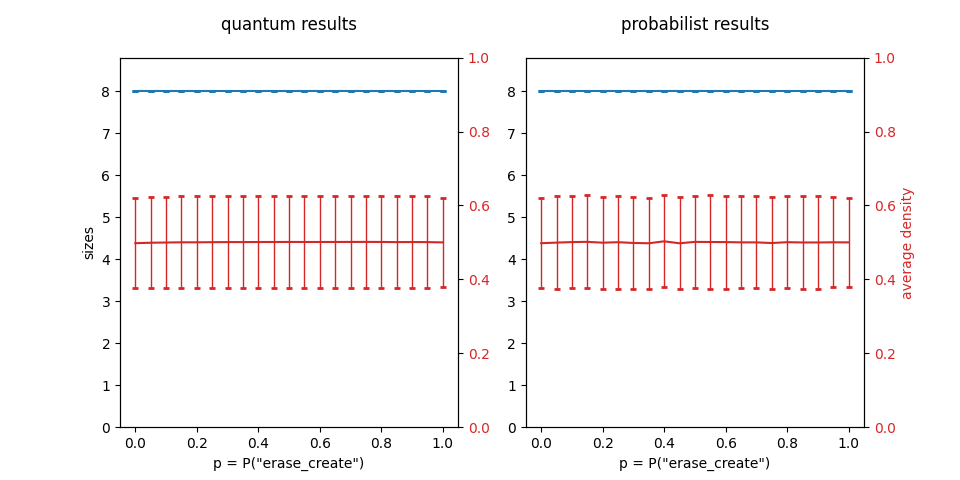
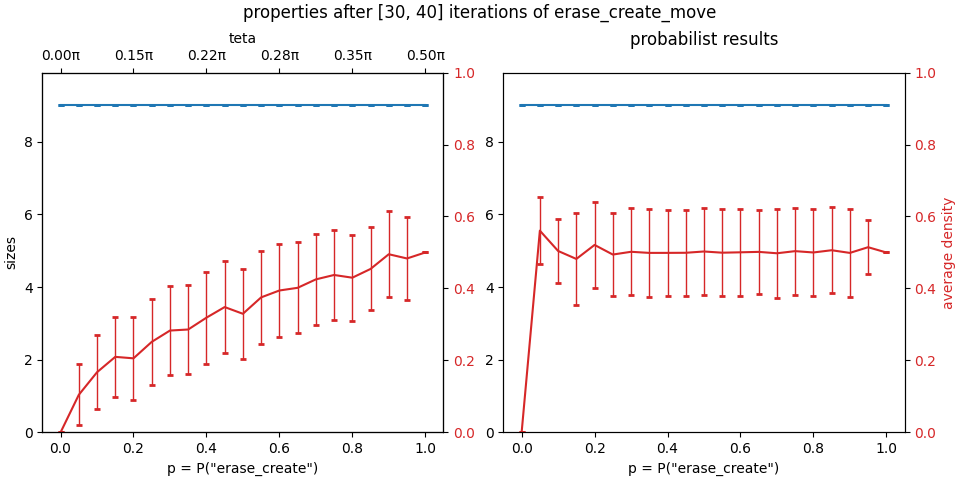
added a probabilist selector, and more options in experiments

diff --git a/v6/grapher/experiments/probabilist_vs_quantum_1_param_rule/grapher.py b/v6/grapher/experiments/probabilist_vs_quantum_1_param_rule/grapher.py
@@ -21,32 +21,22 @@ for filename in filenames:
 	ps = np.array(data["p"])
 	tetas = np.array(data["teta"])
 
-	probabilist_size = np.zeros(len(ps))
-	probabilist_size_std_dev = np.zeros(len(ps))
+	ratios = [it["quantum"]["ratio"] for it in data["results"]]
+	total_probas = [it["quantum"]["total_proba"] for it in data["results"]]
 
-	quantum_size = np.zeros(len(ps))
-	quantum_size_std_dev = np.zeros(len(ps))
+	probabilist_size = [it["probabilist"]["avg_size"] for it in data["results"]]
+	probabilist_size_std_dev = [it["probabilist"]["std_dev_size"] for it in data["results"]]
 
-	probabilist_density = np.zeros(len(ps))
-	probabilist_density_std_dev = np.zeros(len(ps))
+	probabilist_density = [it["probabilist"]["avg_density"] for it in data["results"]]
+	probabilist_density_std_dev = [it["probabilist"]["std_dev_density"] for it in data["results"]]
 
-	quantum_density = np.zeros(len(ps))
-	quantum_density_std_dev = np.zeros(len(ps))
+	quantum_size = [it["quantum"]["avg_size"] for it in data["results"]]
+	quantum_size_std_dev = [it["quantum"]["std_dev_size"] for it in data["results"]]
 
-	for i, it in enumerate(data["results"]):
-		probabilist_size[i] = it["probabilist"]["avg_size"]
-		probabilist_size_std_dev[i] = it["probabilist"]["std_dev_size"]
+	quantum_density = [it["quantum"]["avg_density"] for it in data["results"]]
+	quantum_density_std_dev = [it["quantum"]["std_dev_density"] for it in data["results"]]
 
-		probabilist_density[i] = it["probabilist"]["avg_density"]
-		probabilist_density_std_dev[i] = it["probabilist"]["std_dev_density"]
-
-		quantum_size[i] = it["quantum"]["avg_size"]
-		quantum_size_std_dev[i] = it["quantum"]["std_dev_size"]
-
-		quantum_density[i] = it["quantum"]["avg_density"]
-		quantum_density_std_dev[i] = it["quantum"]["std_dev_density"]
-
-	fig = plt.figure(figsize=plt.figaspect(0.5))
+	fig = plt.figure(figsize=plt.figaspect(0.5), constrained_layout=True)
 
 	y_lim = max(max(quantum_size + probabilist_size_std_dev), max(probabilist_size + probabilist_size_std_dev))*1.1
 
@@ -65,16 +55,22 @@ for filename in filenames:
 	ax1 = fig.add_subplot(1, 2, 1)
 	ax1.set_xlabel(x_label)
 	ax1.set_ylabel('sizes')
-	ax1.set_title(f'quantum results', pad=20)
 	ax1.set_ylim(0, y_lim)
 
 	ax1.errorbar(ps, quantum_size, quantum_size_std_dev,
-				capsize=2, elinewidth=1, markeredgewidth=2, label="average size", color=color)
+				capsize=2, elinewidth=1, markeredgewidth=2, label="size variation", color=color)
 
 	# graph densities
 	ax1_2 = ax1.twinx()
 	ax1_2.tick_params(axis='y', labelcolor=color2)
 	ax1_2.set_ylim(0, 1)
+
+	n_interval = len(ps) // 5
+	ax1_2_x = ax1_2.twiny()
+	ax1_2_x.set_xlim(ax1.get_xlim())
+	ax1_2_x.set_xticks(ps[::n_interval])
+	ax1_2_x.set_xticklabels(["%.2fπ" % teta for teta in tetas[::n_interval]])
+	ax1_2_x.set_xlabel("teta")
 
 	ax1_2.errorbar(ps, quantum_density, quantum_density_std_dev,
 					capsize=2, elinewidth=1, markeredgewidth=2, label="average density", color=color2)
@@ -91,7 +87,7 @@ for filename in filenames:
 	ax2.set_ylim(0, y_lim)
 
 	ax2.errorbar(ps, probabilist_size, probabilist_size_std_dev,
-				capsize=2, elinewidth=1, markeredgewidth=2, label="average size", color=color)
+				capsize=2, elinewidth=1, markeredgewidth=2, label="size variation", color=color)
 
 	# graph densities
 	ax2_2 = ax2.twinx()
@@ -102,11 +98,29 @@ for filename in filenames:
 	ax2_2.errorbar(ps, probabilist_density, probabilist_density_std_dev,
 					capsize=2, elinewidth=1, markeredgewidth=2, label="average density", color=color2)
 
-	n_interval = len(ps) // 5
-	ax2_2_x = ax2_2.twiny()
-	ax2_2_x.set_xlim(ax1.get_xlim())
-	ax2_2_x.set_xticks(ps[::n_interval])
-	ax2_2_x.set_xticklabels(["%.2f" % teta for teta in tetas[::n_interval]])
-	ax2_2_x.set_xlabel("teta")
-
+	fig.suptitle(f'properties after { data["n_iter"] } iterations of { rule_name }')
 	fig.savefig("../../plots/properties/" + name)
+
+
+
+
+	# probability
+	fig = plt.figure(constrained_layout=True)
+	ax = fig.add_subplot(1, 1, 1)
+	ax.set_xlabel('iterations')
+
+	n_interval = len(ps) // 5
+	ax_x = ax.twiny()
+	ax_x.set_xlim(ax1.get_xlim())
+	ax_x.set_xticks(ps[::n_interval])
+	ax_x.set_xticklabels(["%.2fπ" % teta for teta in tetas[::n_interval]])
+	ax_x.set_xlabel("teta")
+
+	ax.plot(ps, total_probas, label="total proba", color=color)
+	ax.plot(ps, ratios, label="ratio of graph", color = color_p)
+	ax.legend()
+	ax.set_ylabel("proba", color=color)
+	ax.tick_params(axis='y', labelcolor=color)
+
+	fig.suptitle(f'stats after { data["n_iter"] } iterations of { rule_name }')
+	fig.savefig("../../plots/stats/" + name)

diff --git a/v6/src/state.hpp b/v6/src/state.hpp
@@ -170,7 +170,7 @@ Non-virtual member functions are:
 				return op;
 			
 			/* generate random number */
-			float r = static_cast<PROBA_TYPE> (rand()) / static_cast<PROBA_TYPE> (RAND_MAX);
+			PROBA_TYPE r = static_cast<PROBA_TYPE> (rand()) / static_cast<PROBA_TYPE> (RAND_MAX);
 
 			if (r < (op == 1 ? p : q))
 				return op;
@@ -328,6 +328,9 @@ Non-virtual member functions are:
 		// new graph hash
 		std::vector<size_t, allocator<size_t>> next_hash; /* of size (a) for the symbolic iteration */
 
+		// new graph random selector
+		std::vector<float, allocator<float>> random_selector; /* of size (a) for the symbolic iteration */
+
 		// new graph magnitude
 		std::vector<PROBA_TYPE, allocator<PROBA_TYPE>> next_real; /* of size (a) for the symbolic iteration */
 		std::vector<PROBA_TYPE, allocator<PROBA_TYPE>> next_imag; /* of size (a) for the symbolic iteration */
@@ -351,6 +354,7 @@ Non-virtual member functions are:
 				resize(next_imag, (size_t)(upsize_policy * size));
 				resize(node_size, (size_t)(upsize_policy * size));
 				resize(sub_node_size, (size_t)(upsize_policy * size));
+				resize(random_selector, (size_t)(upsize_policy * size));
 			}
 
 			std::iota(next_gid.begin(), next_gid.begin() + size, 0);
@@ -706,7 +710,7 @@ Non-virtual member functions are:
 					const long int graph_mem_usage = 2*sizeof(PROBA_TYPE) + 2*sizeof(unsigned int) + sizeof(unsigned short int);
 					const long int node_mem_usage = 2*sizeof(char) + sizeof(unsigned short int) + sizeof(op_type_t);
 					const long int sub_node_mem_usage = 2*sizeof(short int) + sizeof(size_t);
-					const long int symbolic_mem_usage = sizeof(char) + 2*sizeof(unsigned int) + sizeof(unsigned short int) + sizeof(size_t) + 2*sizeof(PROBA_TYPE);
+					const long int symbolic_mem_usage = sizeof(char) + 2*sizeof(unsigned int) + sizeof(unsigned short int) + sizeof(size_t) + 2*sizeof(PROBA_TYPE) + sizeof(float);
 
 					long int mem_usage_per_graph = (graph_mem_usage +
 						(node_mem_usage * node_begin[num_graphs] +
@@ -722,16 +726,23 @@ Non-virtual member functions are:
 					 !!!!!!!!!!!!!!!! */
 
 					if (next_num_graphs > max_num_graphs) {
-						/* sort graphs according to probability */
+
+						/* generate random selectors */
+						//const float size_max = (float)SIZE_MAX;
+						#pragma omp parallel for
+						for (auto gid_it = symbolic_iteration.next_gid.begin(); gid_it != partitioned_it; ++gid_it)  {
+							PROBA_TYPE r = symbolic_iteration.next_real[*gid_it];
+							PROBA_TYPE i = symbolic_iteration.next_imag[*gid_it];
+
+							float &random_number = symbolic_iteration.random_selector[*gid_it];
+							random_number = static_cast<float> (rand()) / static_cast<float> (RAND_MAX);
+							random_number = -std::log(1 - random_number) / (r*r + i*i);
+						} 
+
+						/* select graphs according to random selectors */
 						__gnu_parallel::nth_element(symbolic_iteration.next_gid.begin(), symbolic_iteration.next_gid.begin() + max_num_graphs, partitioned_it,
 						[&](unsigned int const &gid1, unsigned int const &gid2) {
-							PROBA_TYPE r1 = symbolic_iteration.next_real[gid1];
-							PROBA_TYPE i1 = symbolic_iteration.next_imag[gid1];
-
-							PROBA_TYPE r2 = symbolic_iteration.next_real[gid2];
-							PROBA_TYPE i2 = symbolic_iteration.next_imag[gid2];
-
-							return r1*r1 + i1*i1 > r2*r2 + i2*i2;
+							return symbolic_iteration.random_selector[gid1] < symbolic_iteration.random_selector[gid2];
 						});
 
 						next_num_graphs = max_num_graphs;

diff --git a/v6/grapher/experiments/probabilist_vs_quantum_1_param_rule/iterations.py b/v6/grapher/experiments/probabilist_vs_quantum_1_param_rule/iterations.py
@@ -15,6 +15,7 @@ import json
 parser = argparse.ArgumentParser(description='run quantum iteration for all possible arguments')
 
 parser.add_argument('-n', '--n-iter', type=int, default=10, help='number of iteration for each simulation')
+parser.add_argument('-s', '--size', type=int, default=10, help='initial graph size')
 
 parser.add_argument('-N', '--n-serializing', type=int, default=1, help='number of iteration for averaging values')
 
@@ -35,10 +36,10 @@ tetas = np.arccos(np.sqrt(1 - ps)) / np.pi
 ps, tetas = list(ps), list(tetas)
 
 def make_probabilist_cmd(args, p):
-	return f"../../probabilist_iterations.out --start-serializing { max(0, args.n_iter - args.n_serializing + 1) } -T 1e-18 -n { args.n_iter } -p { p } -q { p } --seed 0 " + " ".join(args.args + args.p_args)
+	return f"../../probabilist_iterations.out --start-serializing { max(0, args.n_iter - args.n_serializing + 1) } -s { args.size } -T 1e-18 -n { args.n_iter } -p { p } -q { p } --seed 0 " + " ".join(args.args + args.p_args)
 
 def make_quantum_cmd(args, teta):
-	return f"../../quantum_iterations.out --start-serializing { max(0, args.n_iter - args.n_serializing + 1) } -N -T 1e-18 -n { args.n_iter } --teta { teta } --phi 0 --seed 0 " + " ".join(args.args + args.q_args)
+	return f"../../quantum_iterations.out --start-serializing { max(0, args.n_iter - args.n_serializing + 1) } -s { args.size } -N -T 1e-18 -n { args.n_iter } --teta { teta } --phi 0 --seed 0 " + " ".join(args.args + args.q_args)
 
 # print rules
 print("{")
@@ -88,6 +89,8 @@ for i, (p, teta) in enumerate(zip(ps, tetas)):
 	for key in probabilist_avg:
 		probabilist_avg[key] /= len(data["iterations"])
 
+	probabilist_avg["avg_size"] -= args.size
+	
 
 
 
@@ -109,6 +112,8 @@ for i, (p, teta) in enumerate(zip(ps, tetas)):
 	# divided average by number of point
 	for key in quantum_avg:
 		quantum_avg[key] /= len(data["iterations"])
+
+	quantum_avg["avg_size"] -= args.size
 
 
 

diff --git a/v6/grapher/experiments/quantum_2_params_1_rule/iterations.py b/v6/grapher/experiments/quantum_2_params_1_rule/iterations.py
@@ -12,9 +12,13 @@ import argparse
 import numpy as np
 import json
 
+
+
+
 parser = argparse.ArgumentParser(description='run quantum iteration for all possible arguments')
 
 parser.add_argument('-n', '--n-iter', type=int, default=10, help='number of iteration for each simulation')
+parser.add_argument('-s', '--size', type=int, default=10, help='initial graph size')
 
 parser.add_argument('-N', '--n-serializing', type=int, default=1, help='number of iteration for averaging values')
 
@@ -35,7 +39,7 @@ phis = list(np.linspace(args.p0, args.p1, args.n_phi))
 tetas = list(np.linspace(args.t0, args.t1, args.n_teta))
 
 def make_cmd(args, teta, phi):
-	return f"../../quantum_iterations.out --start-serializing { max(0, args.n_iter - args.n_serializing + 1) } -N -T 1e-18 -n { args.n_iter } -t { teta } -p { phi } --seed 0 " + " ".join(args.args)
+	return f"../../quantum_iterations.out --start-serializing { max(0, args.n_iter - args.n_serializing + 1) } -s { args.size } -N -T 1e-18 -n { args.n_iter } -t { teta } -p { phi } --seed 0 " + " ".join(args.args)
 
 # print rules
 print("{")
@@ -81,6 +85,8 @@ for i, teta in enumerate(tetas):
 		# divided average by number of point
 		for key in avg:
 			avg[key] /= len(data["iterations"])
+
+		avg["avg_size"] -= args.size
 
 		# print to json
 		utils.print_to_json(2,

diff --git a/v6/grapher/experiments/probabilist_2_params_1_rule/iterations.py b/v6/grapher/experiments/probabilist_2_params_1_rule/iterations.py
@@ -12,9 +12,12 @@ import argparse
 import numpy as np
 import json
 
+
+
 parser = argparse.ArgumentParser(description='run quantum iteration for all possible arguments')
 
 parser.add_argument('-n', '--n-iter', type=int, default=10, help='number of iteration for each simulation')
+parser.add_argument('-s', '--size', type=int, default=10, help='initial graph size')
 
 parser.add_argument('-N', '--n-serializing', type=int, default=1, help='number of iteration for averaging values')
 
@@ -35,7 +38,7 @@ ps = list(np.linspace(args.p0, args.p1, args.n_p))
 qs = list(np.linspace(args.q0, args.q1, args.n_q))
 
 def make_cmd(args, p, q):
-	return f"../../probabilist_iterations.out --start-serializing { max(0, args.n_iter - args.n_serializing + 1) } -T 1e-18 -n { args.n_iter } -q { q } -p { p } --seed 0 " + " ".join(args.args)
+	return f"../../probabilist_iterations.out --start-serializing { max(0, args.n_iter - args.n_serializing + 1) } -s { args.size } -T 1e-18 -n { args.n_iter } -q { q } -p { p } --seed 0 " + " ".join(args.args)
 
 # print rules
 print("{")
@@ -82,6 +85,8 @@ for i, p in enumerate(ps):
 		# divided average by number of point
 		for key in avg:
 			avg[key] /= len(data["iterations"])
+
+		avg["avg_size"] -= args.size
 
 		# print to json
 		utils.print_to_json(2,
